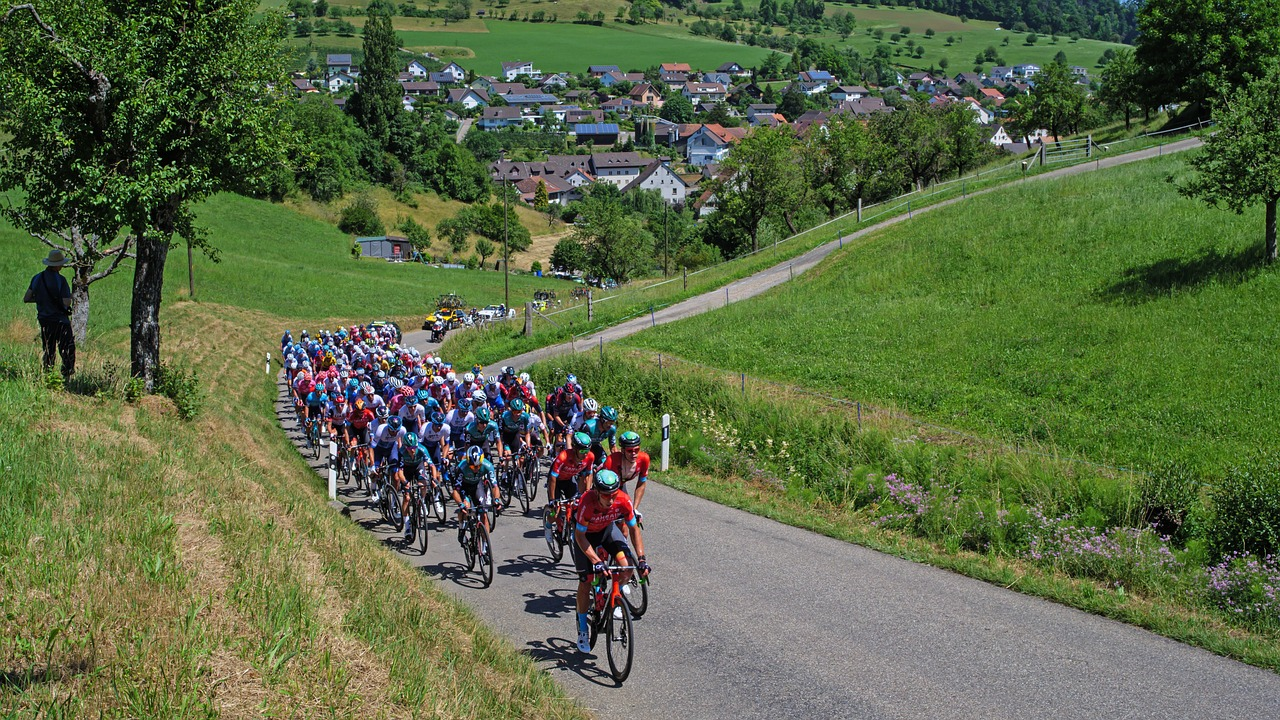
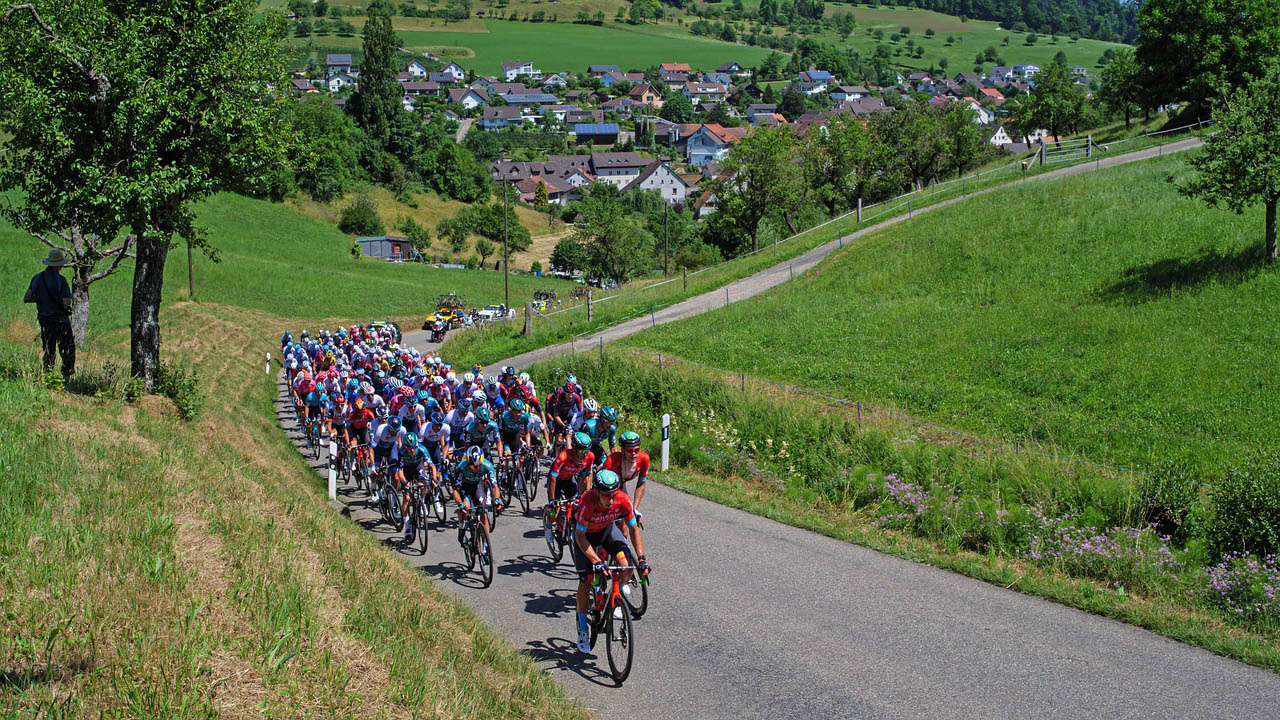
changes

Changed region(s): [[0.25, 0.4889, 0.2812, 0.55], [0.3125, 0.5194, 0.3438, 0.55]]

diff --git a/index.css b/index.css
@@ -808,7 +808,7 @@ li {
 
 .lead.two h3{
   margin-bottom: 0;
-  padding-bottom: .1rem;
+  padding-bottom: .4rem;
   margin-bottom: 1.3rem;
   font-size: 1.2rem;
   border-bottom: 1px solid #797c86b7;
@@ -905,7 +905,7 @@ display: none;
 }
 
 .authorimage.two {
-  background-image: url('./images/Cycling_12.jpeg');
+  background-image: url('./images/Cycling_12.jpg');
 }
 
 .authorimage.three {
@@ -913,7 +913,7 @@ display: none;
 }
 
 .authorimage.four {
-  background-image: url('./images/group-ride.jpeg');
+  background-image: url('./images/group-ride.jpg');
 }
 
 
